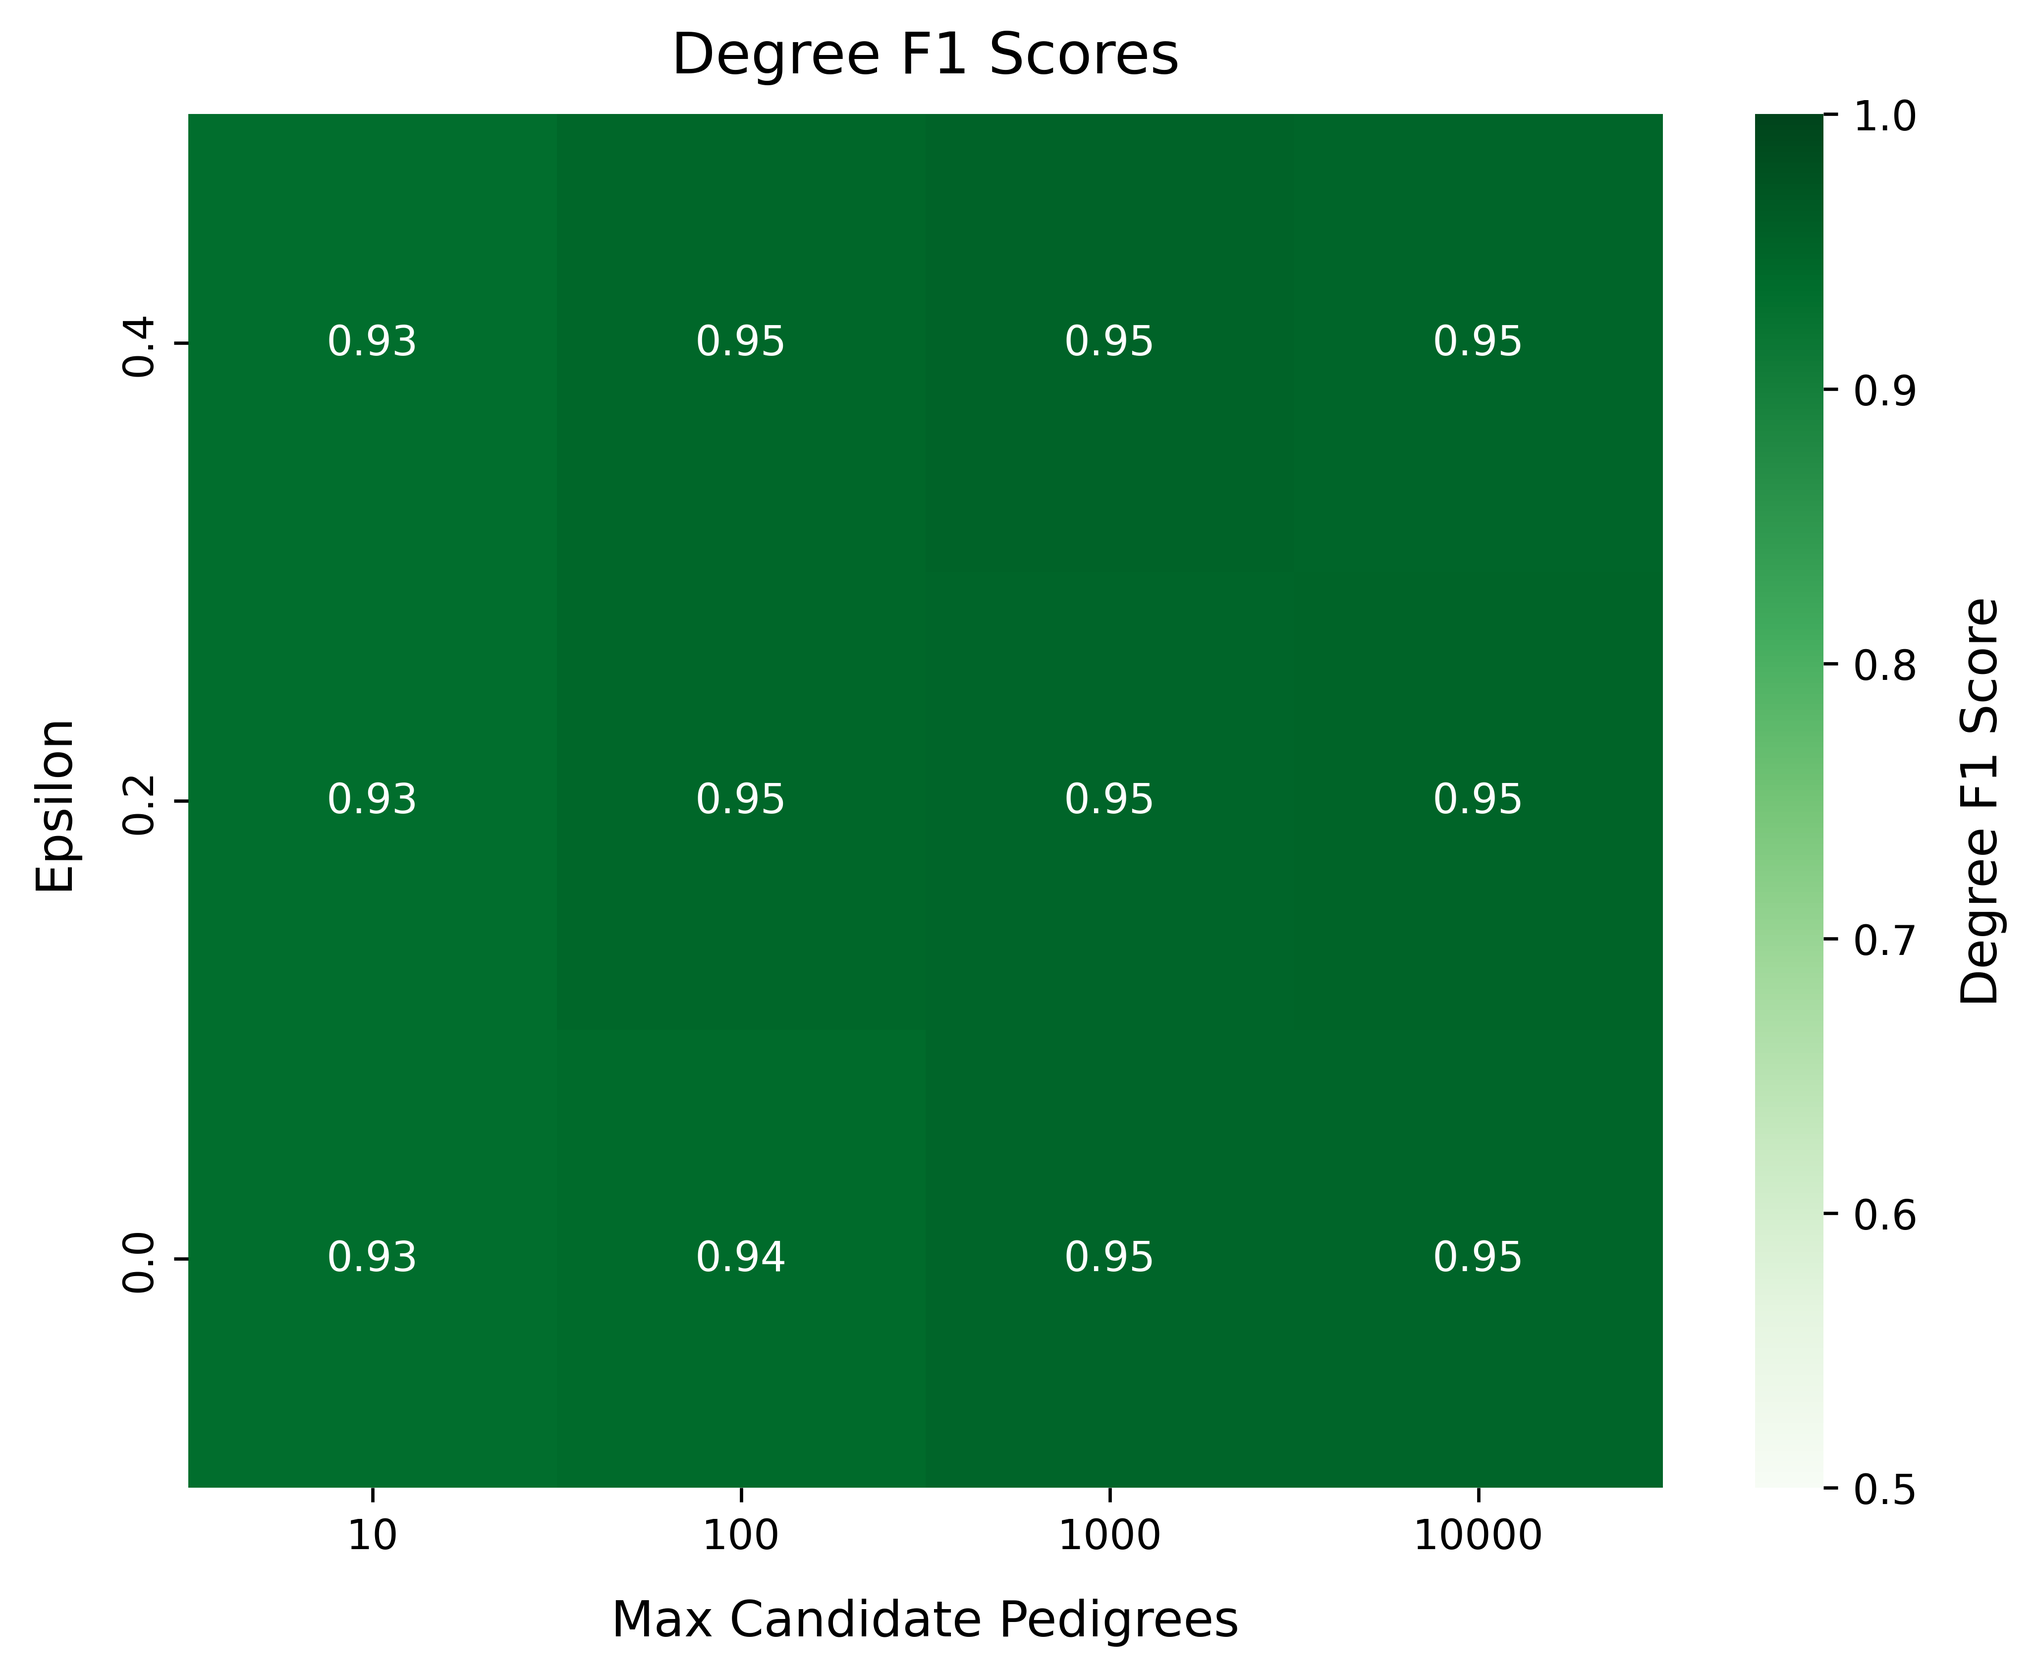
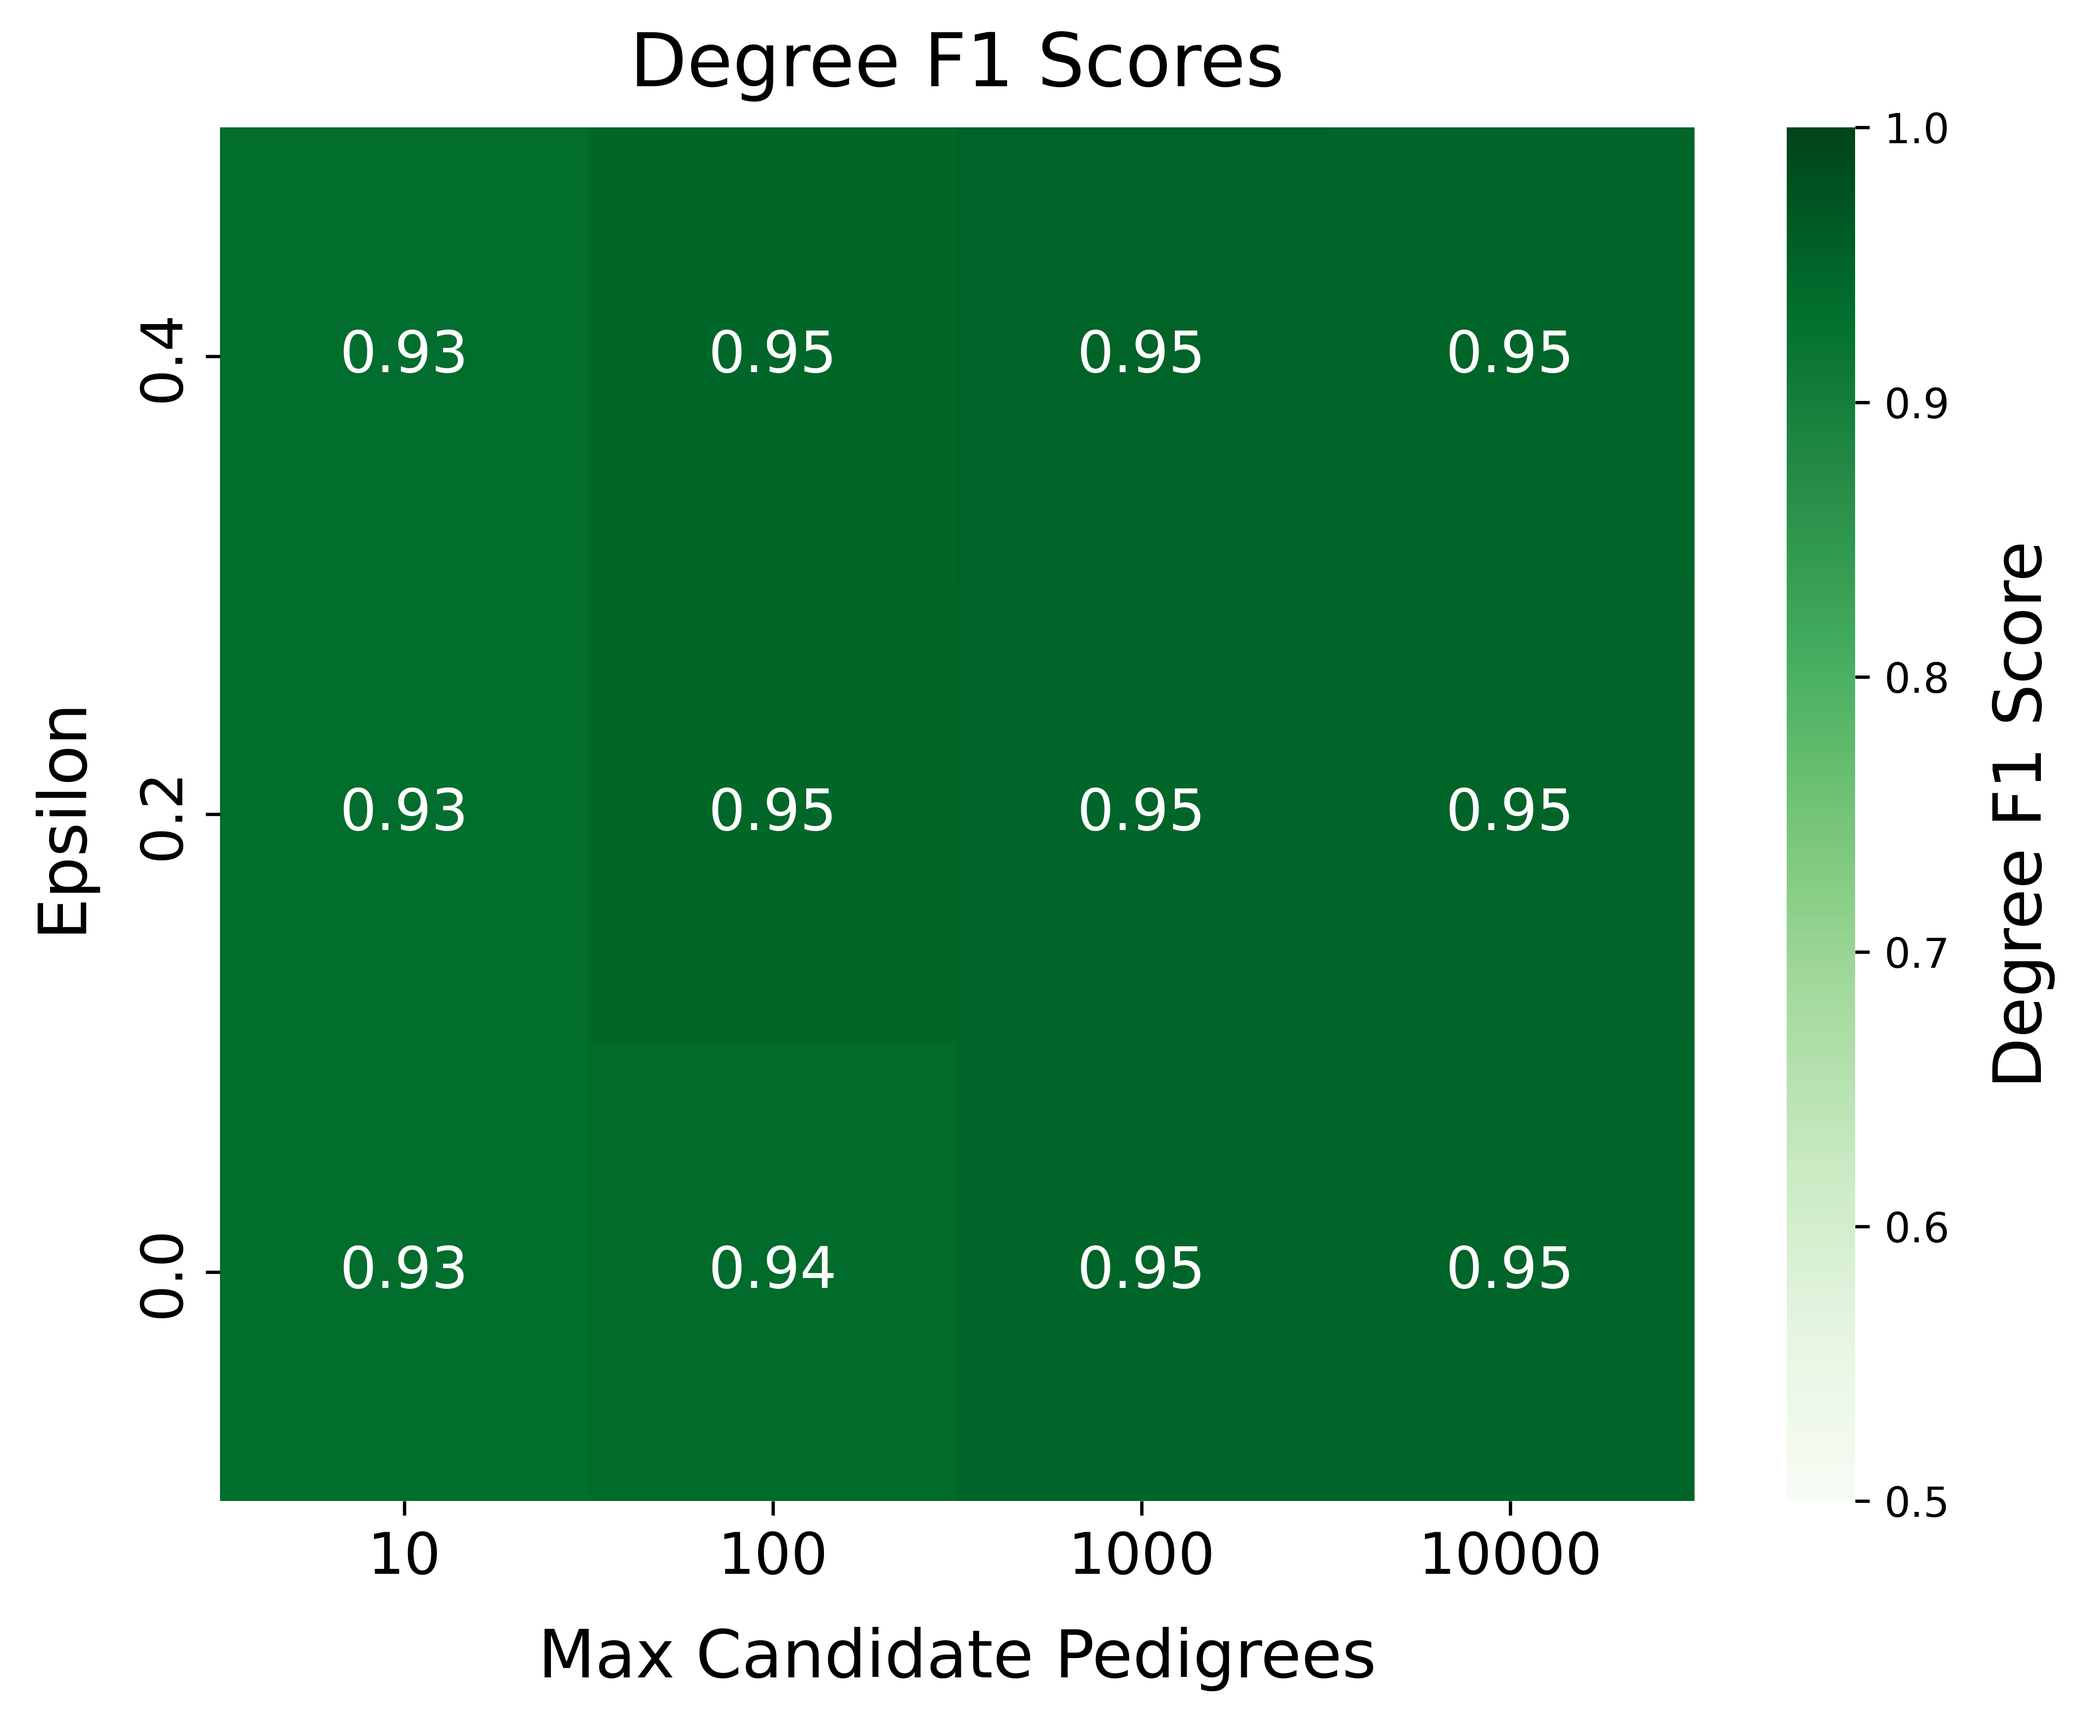
Adjust heatmap plot spacing and sizing

diff --git a/benchmarks/simulations/plot_parameter_data.py b/benchmarks/simulations/plot_parameter_data.py
@@ -20,32 +20,40 @@ def plot_pedigree_summary_statistics(results_dir: str) -> None:
     with mpl.rc_context(
         {
             "figure.constrained_layout.h_pad": 0.1,
-            "figure.constrained_layout.w_pad": 0.1,
+            "figure.constrained_layout.w_pad": 0.15,
         }
     ):
-        fig, axes = plt.subplots(2, 2, figsize=(12, 10), constrained_layout=True)
+        fig, axes = plt.subplots(2, 2, figsize=(10, 8), constrained_layout=True)
         axes = axes.flatten()
-        for ax in axes:
-            ax.set_ylabel("Pedigree Count")
+
         plt.suptitle("Pedigree Summary Statistics (Before Masking Nodes)", fontsize=16)
 
+        for ax in axes:
+            ax.set_ylabel("Pedigree Count", fontsize=14)
+            ax.tick_params(axis="x", labelsize=12)
+            ax.tick_params(axis="y", labelsize=12)
+
         sns.histplot(pedigree_sizes, ax=axes[0])
-        axes[0].set_title("Pedigree Size Distribution")
-        axes[0].set_xlabel("# of Individuals")
+        axes[0].set_title("Pedigree Size Distribution", fontsize=14)
+        axes[0].set_xlabel("# of Individuals", fontsize=14)
 
         sns.histplot(inbred_proportions, ax=axes[1])
-        axes[1].set_title("Inbreeding Proportion Distrbution")
-        axes[1].set_xlabel("Proportion of Inbred Individuals")
+        axes[1].set_title("Inbreeding Proportion Distribution", fontsize=14)
+        axes[1].set_xlabel("Proportion of Inbred Individuals", fontsize=14)
 
         sns.histplot(has_children_proportions, ax=axes[2])
-        axes[2].set_title("Has Children Proportion Distribution")
-        axes[2].set_xlabel("Proportion of Non-Final-Generation Individuals with Children")
+        axes[2].set_title("Has Children Proportion Distribution", fontsize=14)
+        axes[2].set_xlabel("Proportion of Non-Final-Generation\nIndividuals with Children", fontsize=14)
 
         sns.histplot(mean_children_count, ax=axes[3])
-        axes[3].set_title("Mean Children Count Distribution")
-        axes[3].set_xlabel("Mean # of Children per Parent")
+        axes[3].set_title("Mean Children Count Distribution", fontsize=14)
+        axes[3].set_xlabel("Mean # of Children per Parent", fontsize=14)
 
-        plt.savefig("results/parameter_experiment/plots/pedigree_summary_statistics.png", bbox_inches="tight", dpi=600)
+        plt.savefig(
+            "results/parameter_experiment/plots/pedigree_summary_statistics.png",
+            bbox_inches="tight",
+            dpi=600,
+        )
 
 
 def plot_results(results_dir: str) -> None:
@@ -91,15 +99,25 @@ def plot_results(results_dir: str) -> None:
         plt.figure(figsize=(8, 6))
         # Set vmin and vmax so relation and degree F1 scores are on the same color scale
         ax = sns.heatmap(
-            heatmap_data, annot=True, fmt=".2f", cmap="Blues", cbar_kws={"label": f"{metric} Score"}, vmin=0.5, vmax=1.0
+            heatmap_data,
+            annot=True,
+            fmt=".2f",
+            cmap="Blues",
+            cbar_kws={"label": f"{metric} Score"},
+            vmin=0.5,
+            vmax=1.0,
+            annot_kws={"size": 14},
         )
         # Set colorbar label padding
         ax.figure.axes[-1].yaxis.labelpad = 10
         # Set colorbar label size
-        ax.figure.axes[-1].yaxis.label.set_size(12)
-        plt.title(f"{metric} Scores", fontsize=14, pad=10)
-        plt.xlabel("Kinship Relation Error Rate Scale", fontsize=12, labelpad=10)
-        plt.ylabel("p(Mask Node)", fontsize=12, labelpad=10)
+        ax.figure.axes[-1].yaxis.label.set_size(16)
+        plt.title(f"{metric} Scores", fontsize=18, pad=10)
+        plt.xlabel("Kinship Relation Error Rate Scale", fontsize=16, labelpad=10)
+        plt.ylabel("p(Mask Node)", fontsize=16, labelpad=10)
+        ax.tick_params(axis="x", labelsize=14)
+        ax.tick_params(axis="y", labelsize=14)
+
         plt.savefig(
             f"results/parameter_experiment/plots/{metric.lower().replace(' ', '_')}_heatmap.png",
             bbox_inches="tight",

diff --git a/benchmarks/simulations/plot_sampling_data.py b/benchmarks/simulations/plot_sampling_data.py
@@ -57,14 +57,18 @@ def plot_results(results_dir: str) -> None:
             cbar_kws={"label": f"{metric} Score"},
             vmin=0.5,
             vmax=1.0,
+            annot_kws={"size": 14},
         )
         # Set colorbar label padding
         ax.figure.axes[-1].yaxis.labelpad = 10
         # Set colorbar label size
-        ax.figure.axes[-1].yaxis.label.set_size(12)
-        plt.title(f"{metric} Scores", fontsize=14, pad=10)
-        plt.xlabel("Max Candidate Pedigrees", fontsize=12, labelpad=10)
-        plt.ylabel("Epsilon", fontsize=12, labelpad=10)
+        ax.figure.axes[-1].yaxis.label.set_size(16)
+        plt.title(f"{metric} Scores", fontsize=18, pad=10)
+        plt.xlabel("Max Candidate Pedigrees", fontsize=16, labelpad=10)
+        plt.ylabel("Epsilon", fontsize=16, labelpad=10)
+        ax.tick_params(axis="x", labelsize=14)
+        ax.tick_params(axis="y", labelsize=14)
+
         plt.savefig(
             f"results/sampling_experiment/plots/{metric.lower().replace(' ', '_')}_heatmap.png",
             bbox_inches="tight",
